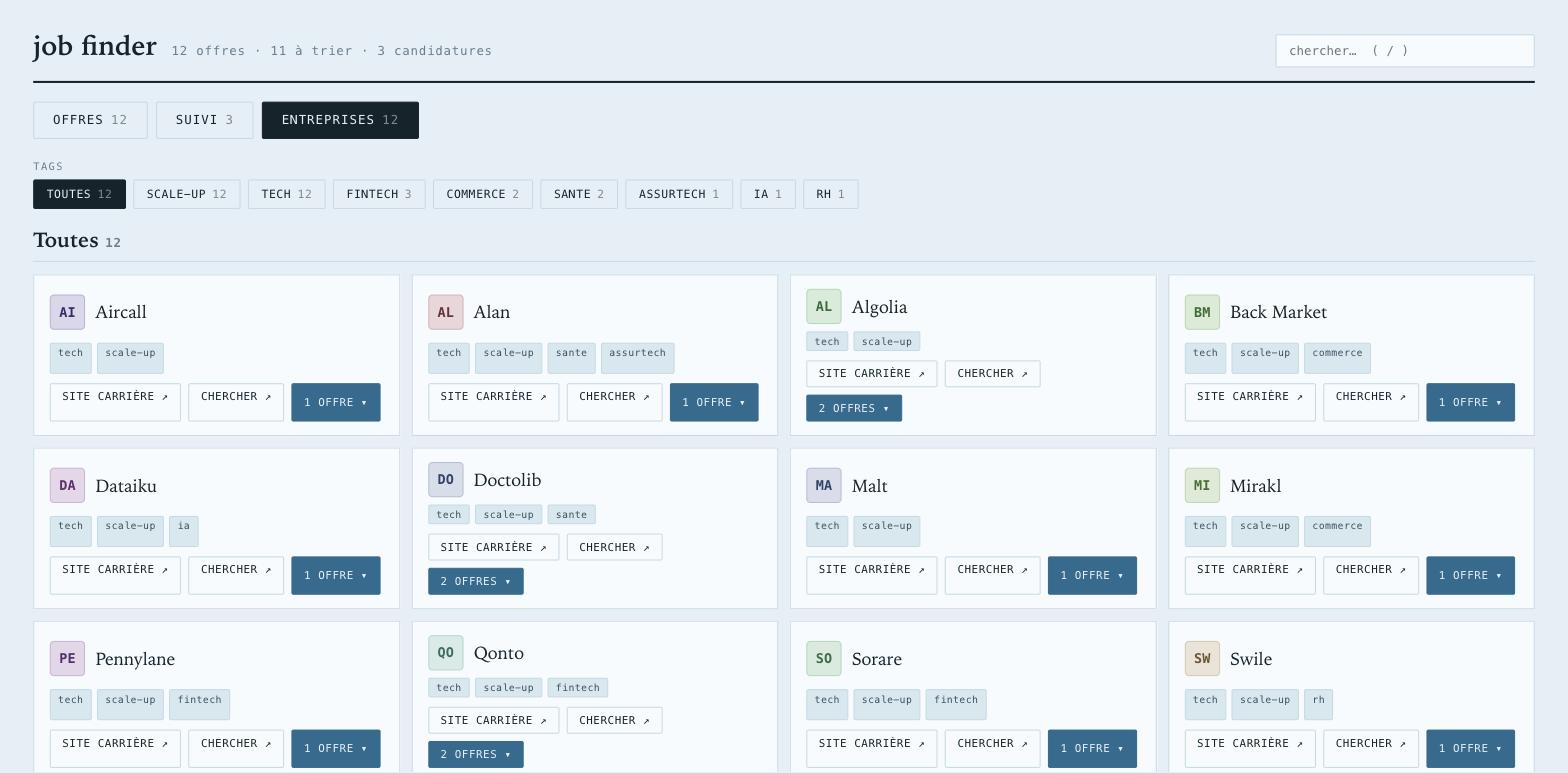
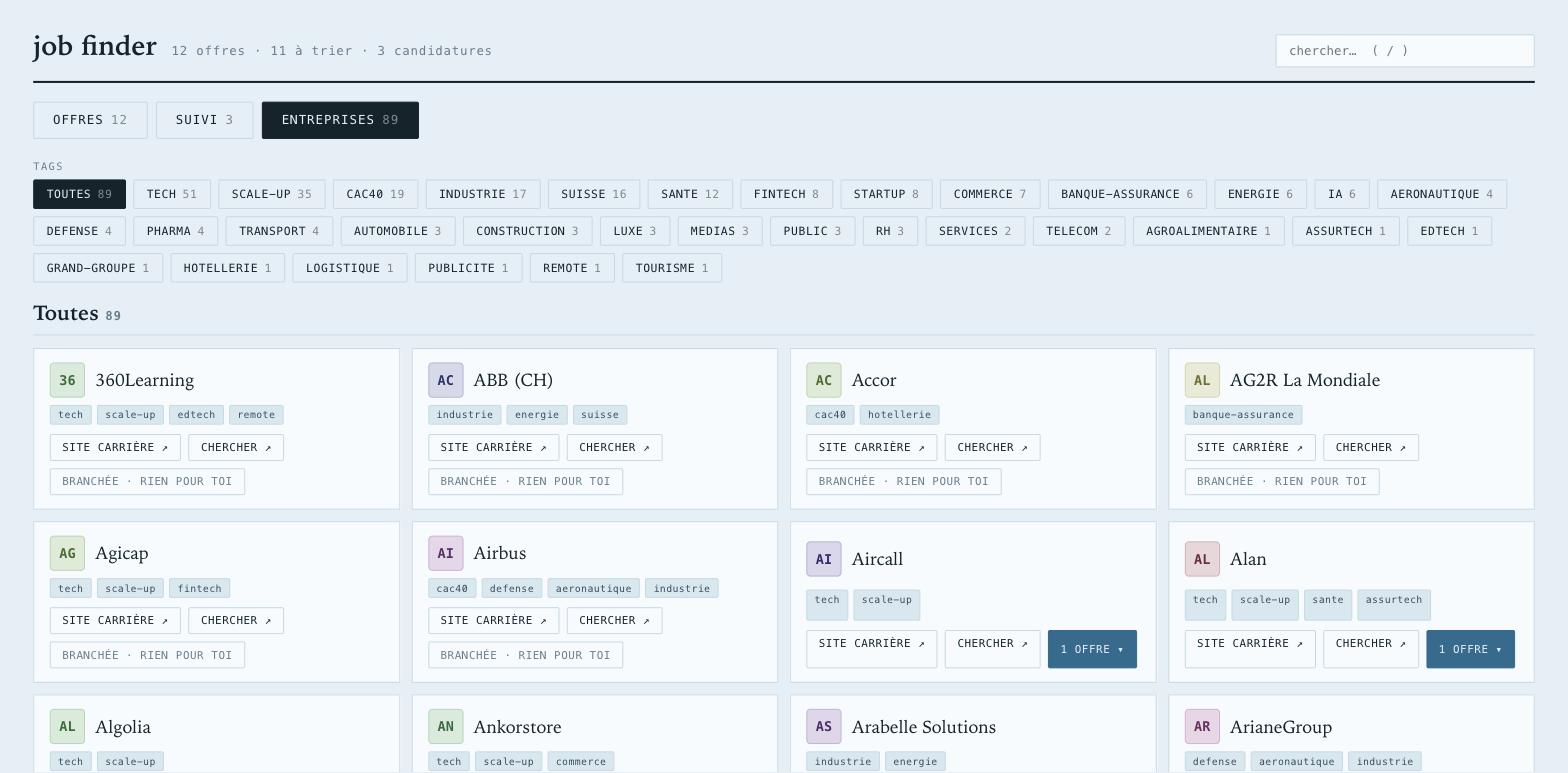
Capture des entreprises refaite : 89 et non douze

diff --git a/README.md b/README.md
@@ -68,9 +68,10 @@ dix jours de silence.
 
 ![L'onglet Suivi](captures/suivi.jpg)
 
-**Entreprises.** Les 89 entreprises livrées avec le dépôt, filtrables par tag — `cac40`,
-`tech`, `defense`, `suisse`, `sante`, `fintech`… Une entreprise en porte plusieurs.
-Cliquer dessus déplie ses offres.
+**Entreprises.** Les 89 entreprises livrées avec le dépôt, filtrables par 33 tags —
+`cac40` (19), `tech` (51), `suisse` (16), `defense` (4), `sante` (12), `fintech` (8)…
+Une entreprise en porte plusieurs. Cliquer dessus déplie ses offres, et chaque carte dit
+son état : branchée avec des offres, branchée sans rien pour vous, ou écartée.
 
 ![L'onglet Entreprises](captures/entreprises.jpg)
 
